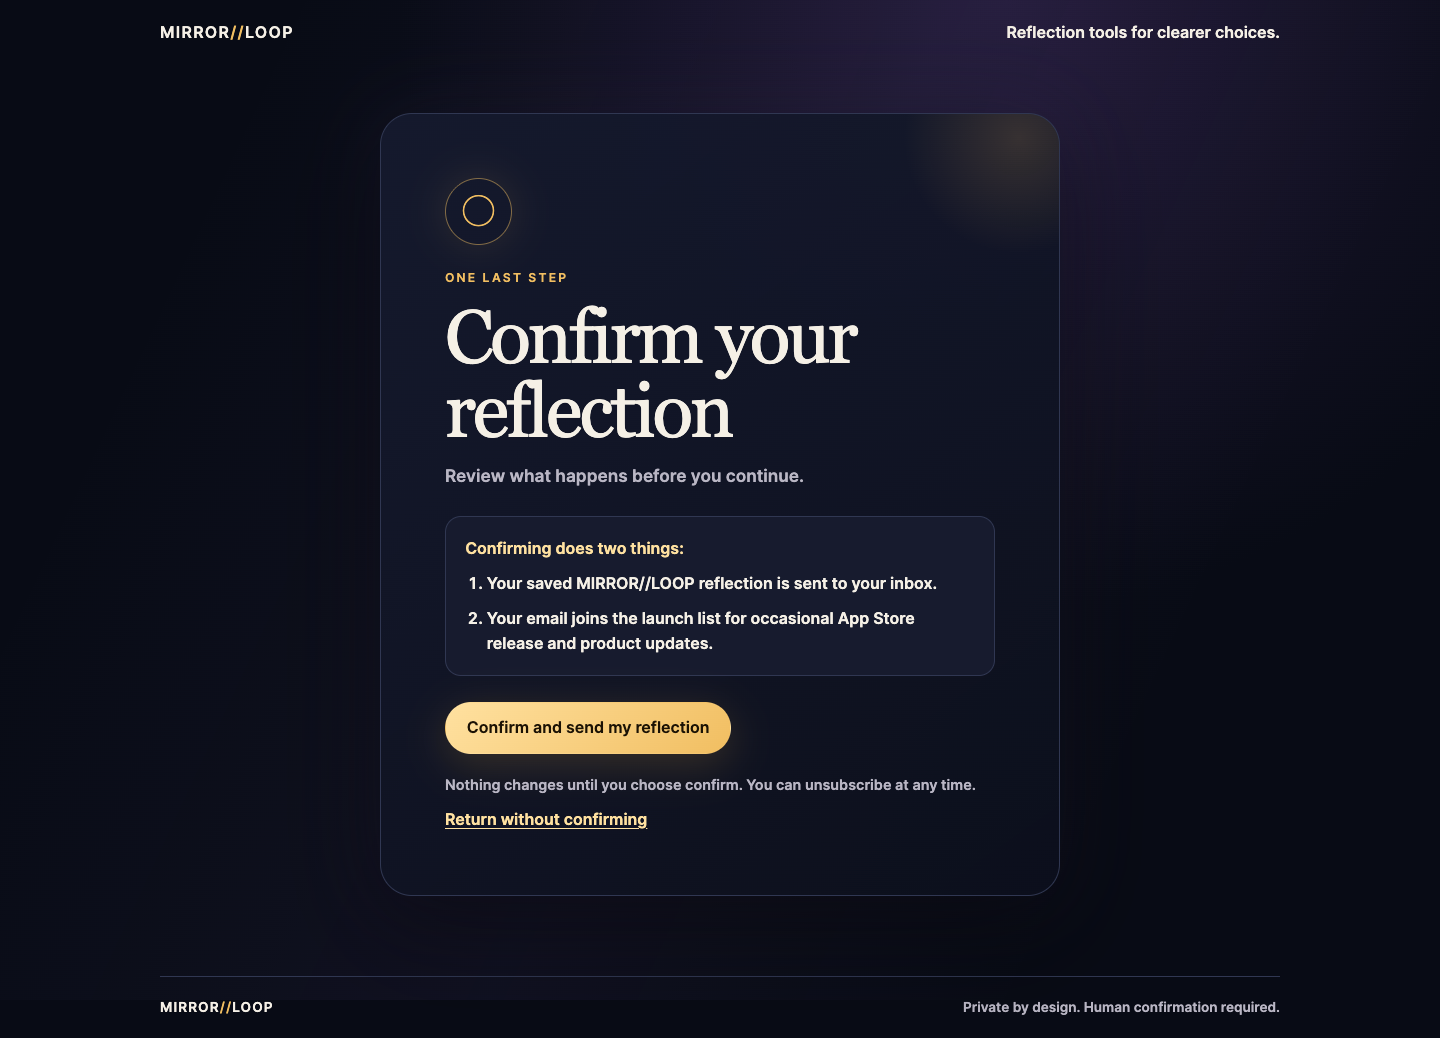
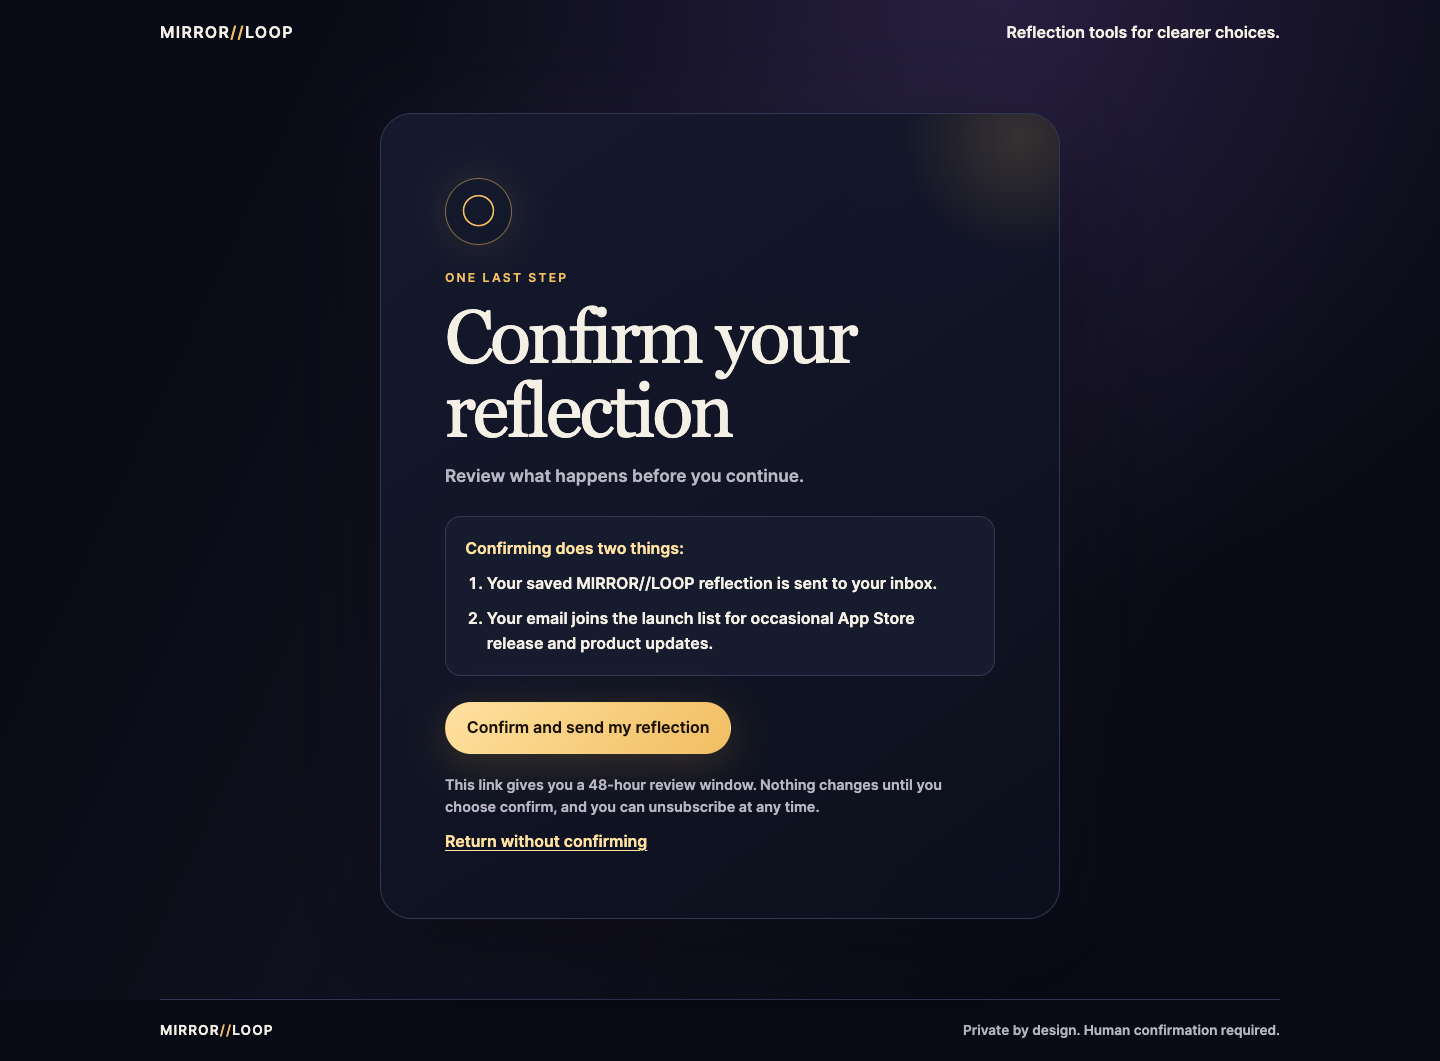
refine F-030 confirmation review context

diff --git a/api/internal/subscriber/http.go b/api/internal/subscriber/http.go
@@ -128,7 +128,7 @@ func (h *HTTPHandler) verify(w http.ResponseWriter, r *http.Request) {
 			},
 			ReviewTitle: "Confirming does two things:",
 			Button:      "Confirm and send my reflection",
-			Footnote:    "Nothing changes until you choose confirm. You can unsubscribe at any time.",
+			Footnote:    "This link gives you a 48-hour review window. Nothing changes until you choose confirm, and you can unsubscribe at any time.",
 			LinkLabel:   "Return without confirming",
 			LinkURL:     "/",
 		})

diff --git a/api/internal/subscriber/http_test.go b/api/internal/subscriber/http_test.go
@@ -180,6 +180,7 @@ func TestConfirmationGETDoesNotActivateSubscription(t *testing.T) {
 		"Confirming does two things:",
 		"Your saved MIRROR//LOOP reflection is sent to your inbox.",
 		"occasional App Store release and product updates",
+		"48-hour review window",
 		"Return without confirming",
 		"prefers-reduced-motion:reduce",
 		`method="post"`,
